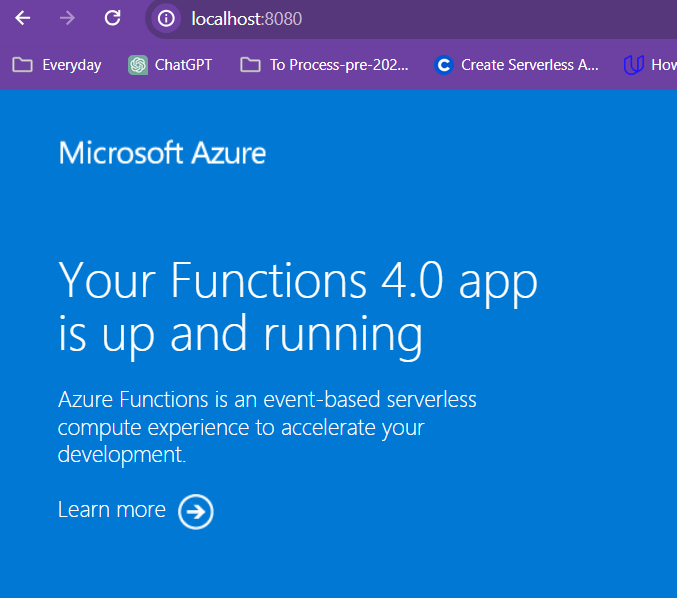
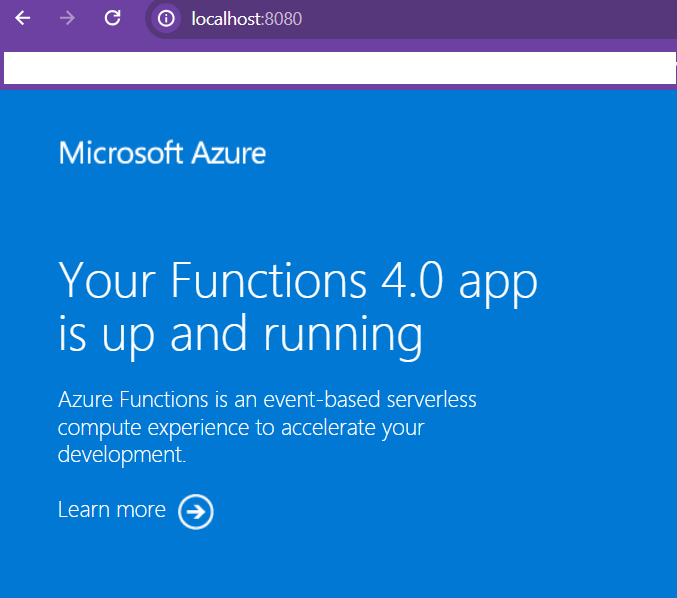
updated documentation

Changed region(s): [[0.0, 0.0602, 1.0, 0.1505]]

diff --git a/README.md b/README.md
@@ -41,6 +41,9 @@ Local Docker Install
 4. run container: "docker run -d -p 8080:80 fn_image_manipulation:v1"
 5. see if running: "docker ps"
 6. Go to "http://localhost:8080" and make sure get an azure function default response
+
+![Azure Function Default Response](./docs/images/docker-default-azure-fn-get-response.png)
+
 7. Access running container via: "docker exec -it container_id_from_ps /bin/bash"
 8. To access logs use: "docker logs container_id_from_ps
 9. Please use external-cloud-Dockerfile for external deploymenets if using docker as default docker file sets a static x-functions-key
